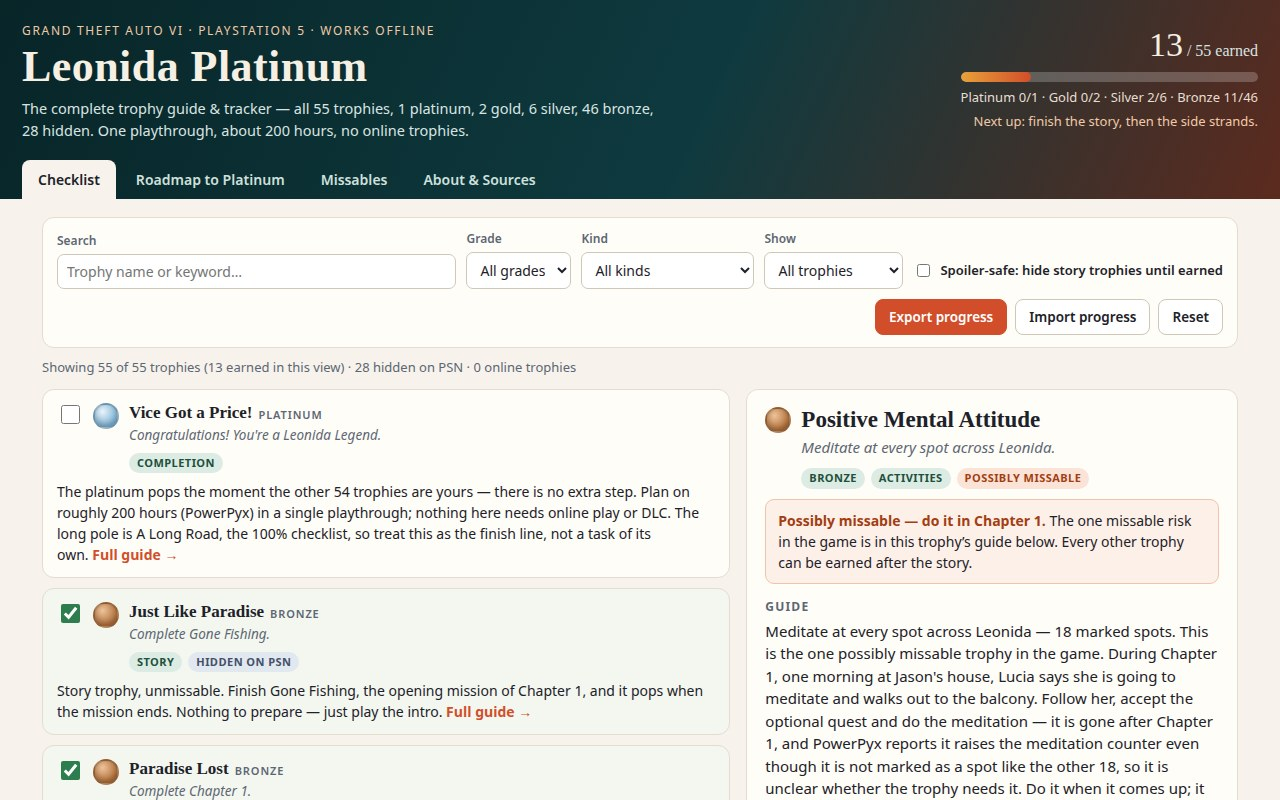
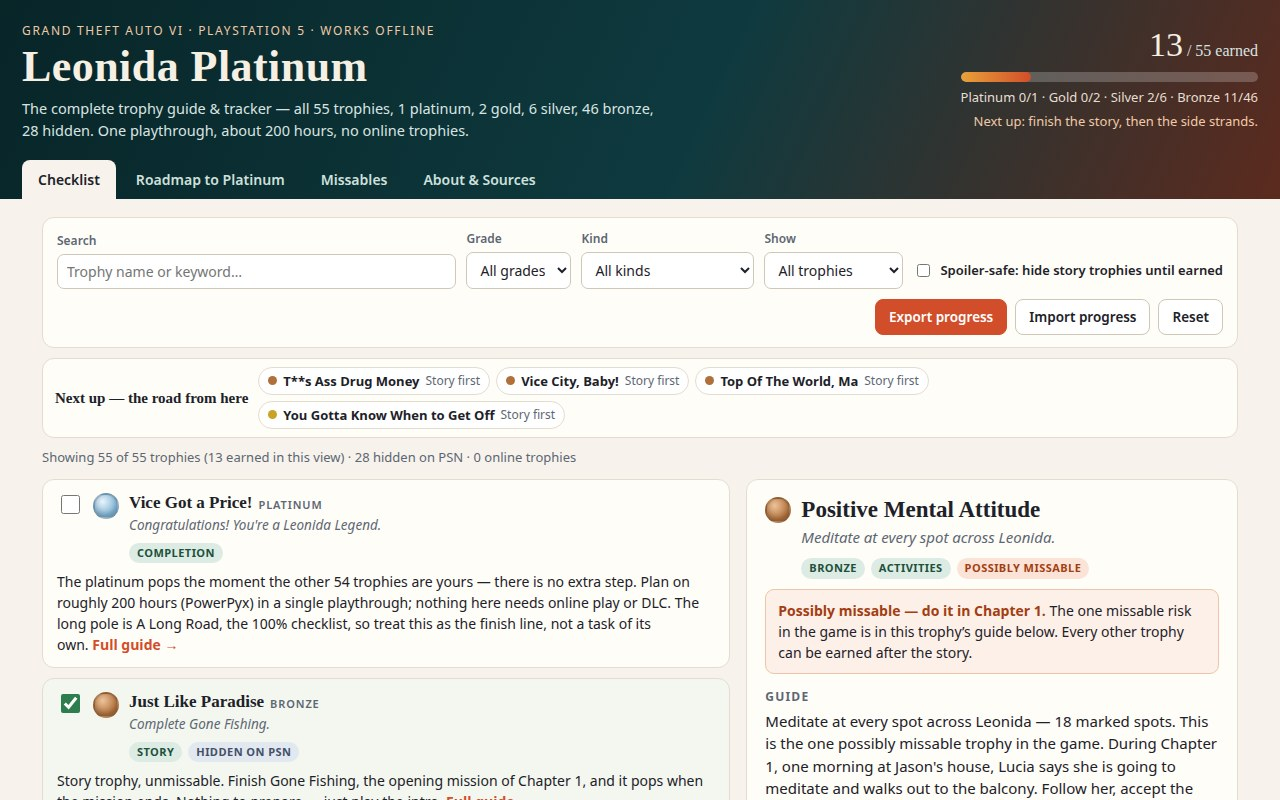
Polish: Next-up planner, counter-and-sources guide shot, spoiler-safe at work

Changed region(s): [[0.0312, 0.4375, 0.9688, 1.0]]

diff --git a/app/js/app.js b/app/js/app.js
@@ -20,6 +20,7 @@ import {
   renderRoadmap,
   renderMissables,
   renderSources,
+  renderNextUp,
 } from './views.js';
 
 const params = new URLSearchParams(location.search);
@@ -67,6 +68,8 @@ function renderAll() {
   const earnedShown = shown.filter((t) => state.earned.includes(t.id)).length;
   document.getElementById('listMeta').textContent =
     `Showing ${shown.length} of ${trophies.length} trophies (${earnedShown} earned in this view) · 28 hidden on PSN · 0 online trophies`;
+  const nextUpEl = document.getElementById('nextUp');
+  if (nextUpEl) renderNextUp(nextUpEl, trophies, state, selectTrophy);
   renderTrophyList(document.getElementById('trophyList'), shown, state, selectedId, callbacks);
   renderDetail(document.getElementById('detailPanel'), selectedId ? byId.get(selectedId) : null, state, sourcesMap, callbacks);
   renderRoadmap(document.getElementById('roadmapStages'), trophies, state, selectTrophy);
@@ -169,7 +172,10 @@ window.addEventListener('hashchange', () => {
 if (shot === 'checklist') {
   selectedId = 28;
 } else if (shot === 'guide') {
-  selectedId = 14;
+  // On the Spot (id 55): shortest guide among counted, non-story, unearned
+  // trophies (171 chars, target 10), so name, guide, counter and sources
+  // all fit in the detail pane at once.
+  selectedId = 55;
 } else if (shot === 'roadmap') {
   currentView = 'roadmap';
 } else if (shot === 'missables') {
@@ -177,7 +183,12 @@ if (shot === 'checklist') {
 }
 if (shotMode) {
   // Counters shown in the guide shot, so the detail pane shows progress too.
-  if (shot === 'guide') state.counters = { ...state.counters, 15: 120 };
+  if (shot === 'guide') {
+    state.counters = { ...state.counters, 55: 6 };
+    state.spoiler = true;
+    document.getElementById('spoilerToggle').checked = true;
+    document.getElementById('statusFilter').value = 'remaining';
+  }
 }
 
 renderSources(document.getElementById('sourceList'), sourcesMap);

diff --git a/app/style.css b/app/style.css
@@ -89,6 +89,27 @@ button.quiet:hover, .import-btn:hover { background: #f0ebe0; }
 .import-btn input { display: none; }
 .list-meta { margin: 2px 0 12px; color: var(--muted); font-size: 13px; }
 
+/* Next up planner */
+.next-up {
+  display: flex; gap: 10px; flex-wrap: wrap; align-items: center;
+  background: var(--card); border: 1px solid var(--line); border-radius: var(--radius);
+  padding: 8px 12px; margin-bottom: 10px;
+}
+.next-up-title { margin: 0; font-size: 15px; line-height: 1.2; white-space: nowrap; }
+.next-up-done { margin: 0; font-size: 14px; font-weight: 600; color: var(--ok); }
+.next-up-chips { display: flex; gap: 6px; flex-wrap: wrap; flex: 1; min-width: 0; }
+button.next-up-chip {
+  background: #fff; color: var(--ink); border: 1px solid var(--line);
+  border-radius: 20px; padding: 4px 9px; cursor: pointer;
+  display: inline-flex; align-items: center; gap: 6px;
+  font: 13px "Segoe UI", system-ui, sans-serif; text-align: left;
+}
+button.next-up-chip:hover { background: #fff; color: var(--ink); border-color: var(--coral); }
+.next-up-chip .dot { display: inline-block; width: 9px; height: 9px; border-radius: 50%; flex: none; }
+.next-up-name { font-weight: 700; white-space: nowrap; }
+.next-up-stage { color: var(--muted); font-size: 12px; white-space: nowrap; }
+.next-up-count { color: var(--ok); font-size: 12px; font-weight: 700; white-space: nowrap; }
+
 /* Checklist split: list + detail */
 .split { display: grid; grid-template-columns: minmax(0, 7fr) minmax(0, 5fr); gap: 16px; align-items: start; }
 .list-col { display: flex; flex-direction: column; gap: 10px; }

diff --git a/app/js/views.js b/app/js/views.js
@@ -170,6 +170,34 @@ function counterRow(trophy, state, callbacks) {
   return row;
 }
 
+export function renderNextUp(container, trophies, state, onSelect) {
+  if (!container) return;
+  container.replaceChildren();
+  const unearned = trophies
+    .filter((t) => !isEarned(state, t.id))
+    .sort((a, b) => a.stage - b.stage || a.id - b.id);
+  if (unearned.length === 0) {
+    container.append(el('p', 'next-up-done', 'All 55 earned — platinum secured.'));
+    return;
+  }
+  container.append(el('h2', 'next-up-title', 'Next up — the road from here'));
+  const row = el('div', 'next-up-chips');
+  for (const t of unearned.slice(0, 4)) {
+    const stage = STAGES.find((s) => s.stage === t.stage);
+    const chip = el('button', 'next-up-chip');
+    chip.type = 'button';
+    chip.append(el('span', 'dot ' + t.grade));
+    chip.append(el('span', 'next-up-name', spoilerHidden(t, state) ? 'Hidden story trophy' : t.name));
+    chip.append(el('span', 'next-up-stage', stage ? stage.title : 'Stage ' + t.stage));
+    if (t.count) {
+      chip.append(el('span', 'next-up-count', `${counterOf(state, t.id)} / ${t.count.target} ${t.count.label}`));
+    }
+    chip.addEventListener('click', () => onSelect(t.id));
+    row.append(chip);
+  }
+  container.append(row);
+}
+
 export function renderTrophyList(container, trophies, state, selectedId, callbacks) {
   container.replaceChildren();
   if (trophies.length === 0) {

diff --git a/app/index.html b/app/index.html
@@ -72,6 +72,7 @@
         <button id="resetBtn" type="button" class="quiet">Reset</button>
       </div>
     </div>
+    <section id="nextUp" class="next-up" aria-label="Next up"></section>
     <p class="list-meta" id="listMeta"></p>
     <div class="split">
       <div class="list-col" id="trophyList" aria-live="polite"></div>
